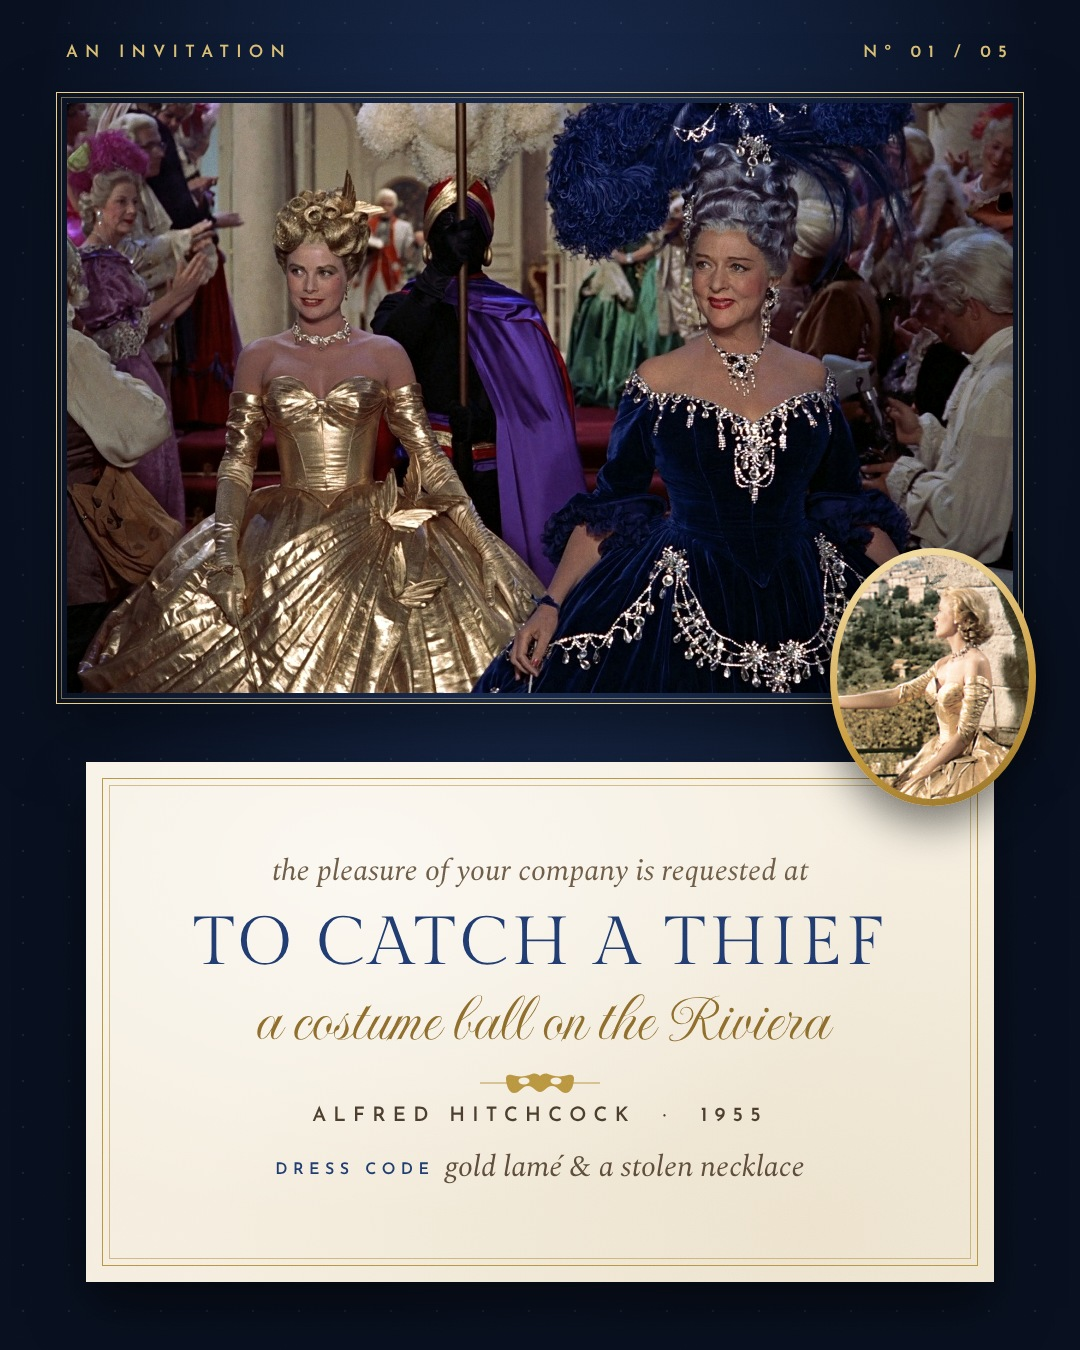
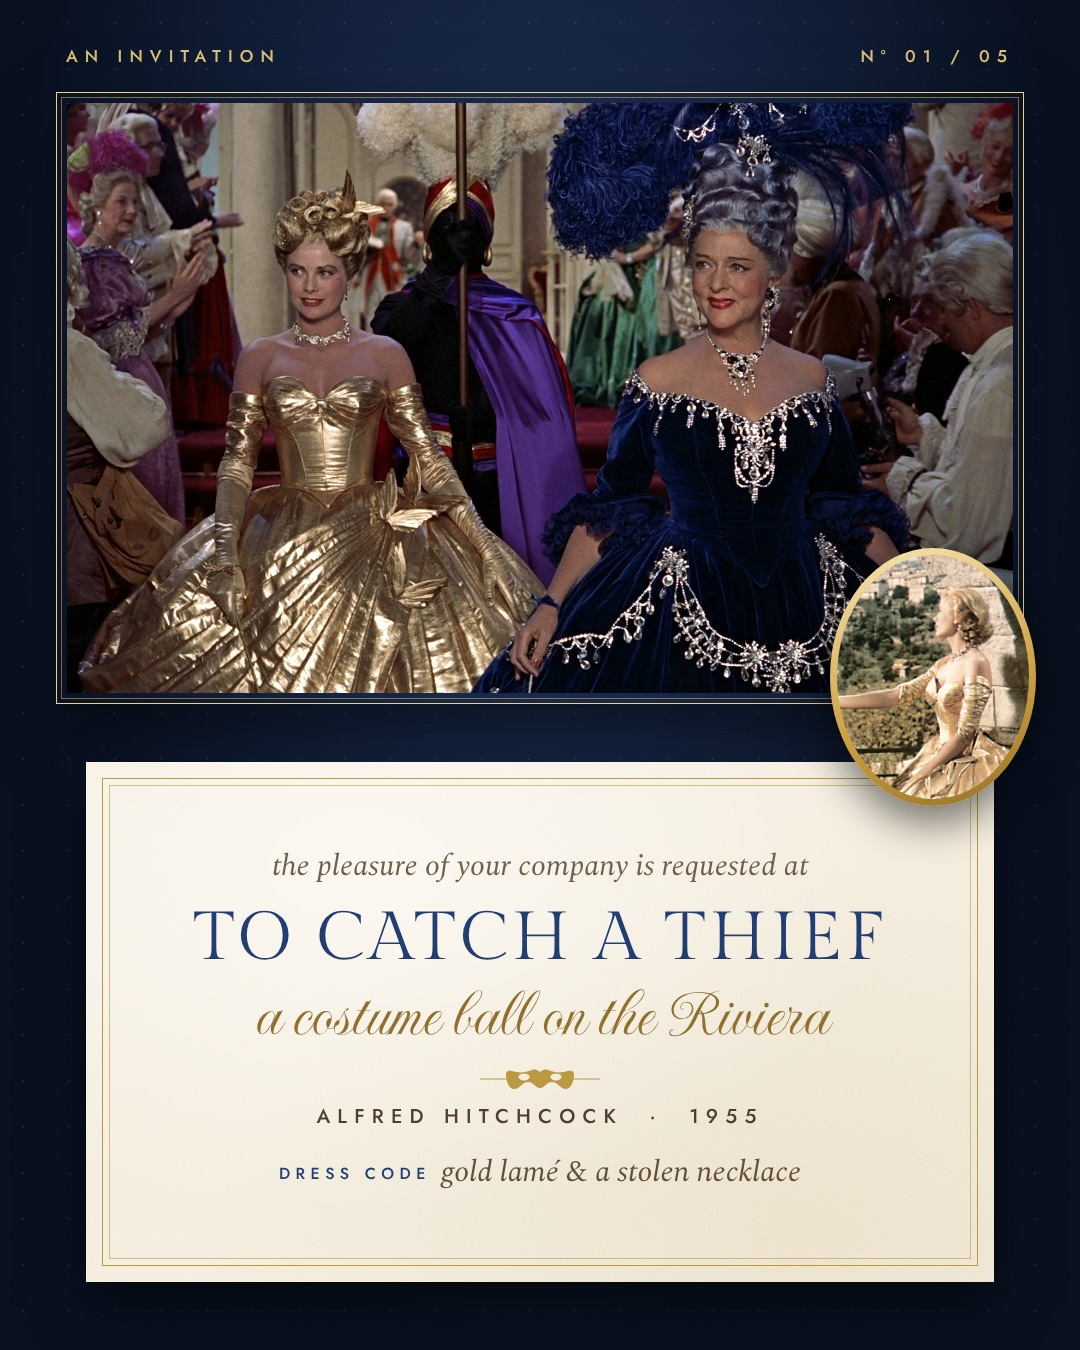
ede.nnico masquerade: emerald cover (avoid today's anime gold), Jost
Claude-Session: https://claude.ai/code/session_01EdFgetmsvHSA2QL5kV48Zi

diff --git a/tools/slideshow/render_masq.js b/tools/slideshow/render_masq.js
@@ -5,7 +5,7 @@ const D = path.resolve(process.argv[2] || '.');
 const F = path.resolve(__dirname, 'node_modules/@fontsource') + '/';
 const ff = (fam, pkg, w, st = 'normal') => `@font-face{font-family:'${fam}';font-weight:${w};font-style:${st};src:url(file://${F}${pkg}/files/${pkg}-latin-${w}-${st}.woff2)}`;
 const GOLD = '#F0CF7A';
-const css = [ff('Imp', 'imperial-script', 400), ff('Gilda', 'gilda-display', 400), ff('Jos', 'josefin-sans', 400), ff('Jos', 'josefin-sans', 600),
+const css = [ff('Imp', 'imperial-script', 400), ff('Gilda', 'gilda-display', 400), ff('Jos', 'jost', 400), ff('Jos', 'jost', 500),
   ff('Spec', 'spectral', 300, 'italic'), ff('Spec', 'spectral', 400, 'italic'), ff('Spec', 'spectral', 400)].join('') + `
 *{margin:0;padding:0;box-sizing:border-box}
 body{width:1080px;height:1350px;overflow:hidden;position:relative;background:#0b0a0d}
@@ -18,18 +18,18 @@ body{width:1080px;height:1350px;overflow:hidden;position:relative;background:#0b
 .cshade{position:absolute;inset:0;background:linear-gradient(180deg,rgba(6,8,8,.6) 0%,rgba(6,8,8,.3) 30%,rgba(0,0,0,0) 46%,rgba(0,0,0,0) 72%,rgba(8,5,2,.82) 100%)}
 .vig{position:absolute;inset:0;background:radial-gradient(ellipse at 50% 46%,rgba(0,0,0,0) 55%,rgba(0,0,0,.4) 100%)}
 .ctop{position:absolute;top:70px;left:0;right:0;text-align:center;color:${GOLD};text-shadow:0 2px 26px rgba(0,0,0,.55)}
-.kick{font-family:Jos;font-weight:600;font-size:23px;letter-spacing:.5em;padding-left:.5em;color:#F4EBD8}
-.hero{font-family:Imp;font-size:212px;line-height:1;margin-top:-6px;background:linear-gradient(175deg,#FBE7AE 10%,#E9BF5E 55%,#C99A3E 90%);-webkit-background-clip:text;color:transparent;filter:drop-shadow(0 3px 18px rgba(0,0,0,.6))}
+.kick{font-family:Jos;font-weight:500;font-size:23px;letter-spacing:.5em;padding-left:.5em;color:#F4EBD8}
+.hero{font-family:Imp;font-size:212px;line-height:1;margin-top:-6px;background:linear-gradient(175deg,#C9F2D6 8%,#7DD3A0 50%,#3FA872 92%);-webkit-background-clip:text;color:transparent;filter:drop-shadow(0 3px 18px rgba(0,0,0,.6))}
 .cbot{position:absolute;top:var(--bt);left:80px;right:80px;text-align:center;color:#F4EBD8}
-.ball{font-family:Gilda;font-size:50px;letter-spacing:.62em;padding-left:.62em;color:${GOLD};text-shadow:0 2px 20px rgba(0,0,0,.7)}
+.ball{font-family:Gilda;font-size:50px;letter-spacing:.62em;padding-left:.62em;color:#A8E4BE;text-shadow:0 2px 20px rgba(0,0,0,.7)}
 .orn{display:flex;align-items:center;justify-content:center;gap:18px;margin:16px 0 14px}
-.orn i{display:block;width:120px;height:1px;background:linear-gradient(90deg,transparent,${GOLD})}.orn i:last-child{transform:scaleX(-1)}
+.orn i{display:block;width:120px;height:1px;background:linear-gradient(90deg,transparent,#A8E4BE)}.orn i:last-child{transform:scaleX(-1)}
 .csub{font-family:Spec;font-style:italic;font-weight:400;font-size:34px;line-height:1.3;text-shadow:0 2px 18px rgba(0,0,0,.7)}
 .swipe{position:absolute;bottom:48px;left:0;right:0;text-align:center;color:#F4EBD8;font-family:Jos;font-size:17px;letter-spacing:.42em;opacity:.8}
 /* invitation */
 .page{position:absolute;inset:0}
 .damask{position:absolute;inset:0;opacity:.07;background-image:radial-gradient(circle at 50% 50%,#fff 1.4px,transparent 1.6px),radial-gradient(circle at 0 0,#fff 1px,transparent 1.3px);background-size:46px 46px,46px 46px;background-position:0 0,23px 23px}
-.hd{position:absolute;top:44px;left:0;right:0;display:flex;justify-content:space-between;padding:0 66px;font-family:Jos;font-weight:600;font-size:17px;letter-spacing:.42em;color:${GOLD};opacity:.9}
+.hd{position:absolute;top:44px;left:0;right:0;display:flex;justify-content:space-between;padding:0 66px;font-family:Jos;font-weight:500;font-size:17px;letter-spacing:.42em;color:${GOLD};opacity:.9}
 .frame{position:absolute;top:92px;left:56px;width:968px;height:612px;border:1.5px solid ${GOLD};padding:10px;box-shadow:0 30px 60px rgba(0,0,0,.5)}
 .frame:after{content:'';position:absolute;inset:4px;border:1px solid rgba(240,207,122,.45);pointer-events:none}
 .frame img{width:100%;height:100%;object-fit:cover;display:block;filter:saturate(.9) contrast(1.03) sepia(.08)}
@@ -43,9 +43,9 @@ body{width:1080px;height:1350px;overflow:hidden;position:relative;background:#0b
 .title{font-family:Gilda;font-size:var(--fs,74px);line-height:1.05;letter-spacing:.06em;margin-top:14px;color:var(--ink)}
 .occ{font-family:Imp;font-size:70px;line-height:1.05;color:#8C6A2A;margin-top:4px}
 .mask{margin:10px auto 6px;display:block}
-.meta{font-family:Jos;font-weight:600;font-size:20px;letter-spacing:.36em;color:#4a3c2c}
+.meta{font-family:Jos;font-weight:500;font-size:20px;letter-spacing:.36em;color:#4a3c2c}
 .dress{font-family:Spec;font-style:italic;font-weight:400;font-size:30px;color:#5b4b38;margin-top:18px}
-.dress b{font-family:Jos;font-style:normal;font-weight:600;font-size:16px;letter-spacing:.34em;color:var(--ink);margin-right:10px;vertical-align:2px}
+.dress b{font-family:Jos;font-style:normal;font-weight:500;font-size:16px;letter-spacing:.34em;color:var(--ink);margin-right:10px;vertical-align:2px}
 `;
 const maskSvg = c => `<svg class="mask" width="120" height="34" viewBox="0 0 120 34"><path d="M0 17h30M90 17h30" stroke="${c}" stroke-width="1"/><path d="M60 26c-5 0-6-6-12-6-6 0-8 7-14 7-6 0-8-10-8-15 0-3 3-4 6-3 6 2 13 2 20-1 3-1 6 0 8 2 2-2 5-3 8-2 7 3 14 3 20 1 3-1 6 0 6 3 0 5-2 15-8 15-6 0-8-7-14-7-6 0-7 6-12 6z" fill="${c}"/><ellipse cx="44" cy="15" rx="5.5" ry="3.4" fill="#F5EEDF"/><ellipse cx="76" cy="15" rx="5.5" ry="3.4" fill="#F5EEDF"/></svg>`;
 const S = JSON.parse(fs.readFileSync(D + '/slides.json'));
@@ -56,7 +56,7 @@ const S = JSON.parse(fs.readFileSync(D + '/slides.json'));
     let body;
     if (s.type === 'cover') body = `<div style="--sh:${s.sh}px;--bt:${s.bt}px;position:absolute;inset:0"><img class="sky" src="file://${D}/${s.img}" style="object-position:${s.x}% 0%;top:0"><img class="bg" src="file://${D}/${s.img}" style="object-position:${s.x}% ${s.y ?? 50}%"><div class="seam"></div><div class="cshade"></div><div class="vig"></div>
       <div class="ctop"><div class="kick">${s.kick}</div><div class="hero">${s.h}</div></div>
-      <div class="cbot"><div class="ball">${s.h2}</div><div class="orn"><i></i>${maskSvg(GOLD).replace('class="mask"', 'style="display:block"').replace(/#F5EEDF/g, '#120d07')}<i></i></div></div><div class="csub" style="position:absolute;left:0;right:0;bottom:${s.sb}px;text-align:center;color:#F4EBD8">${s.sub}</div><div class="swipe">SWIPE FOR THE GUEST LIST →</div></div>`;
+      <div class="cbot"><div class="ball">${s.h2}</div><div class="orn"><i></i>${maskSvg('#A8E4BE').replace('class="mask"', 'style="display:block"').replace(/#F5EEDF/g, '#120d07')}<i></i></div></div><div class="csub" style="position:absolute;left:0;right:0;bottom:${s.sb}px;text-align:center;color:#F4EBD8">${s.sub}</div><div class="swipe">SWIPE FOR THE GUEST LIST →</div></div>`;
     else body = `<div class="page" style="background:radial-gradient(ellipse at 50% 30%,${s.bg2},${s.bg} 70%)"></div><div class="damask"></div>
       <div class="hd"><span>AN INVITATION</span><span>Nº 0${s.n} / 05</span></div>
       <div class="frame"><img src="file://${D}/${s.img}" style="object-position:${s.x ?? 50}% ${s.y ?? 50}%"></div>
